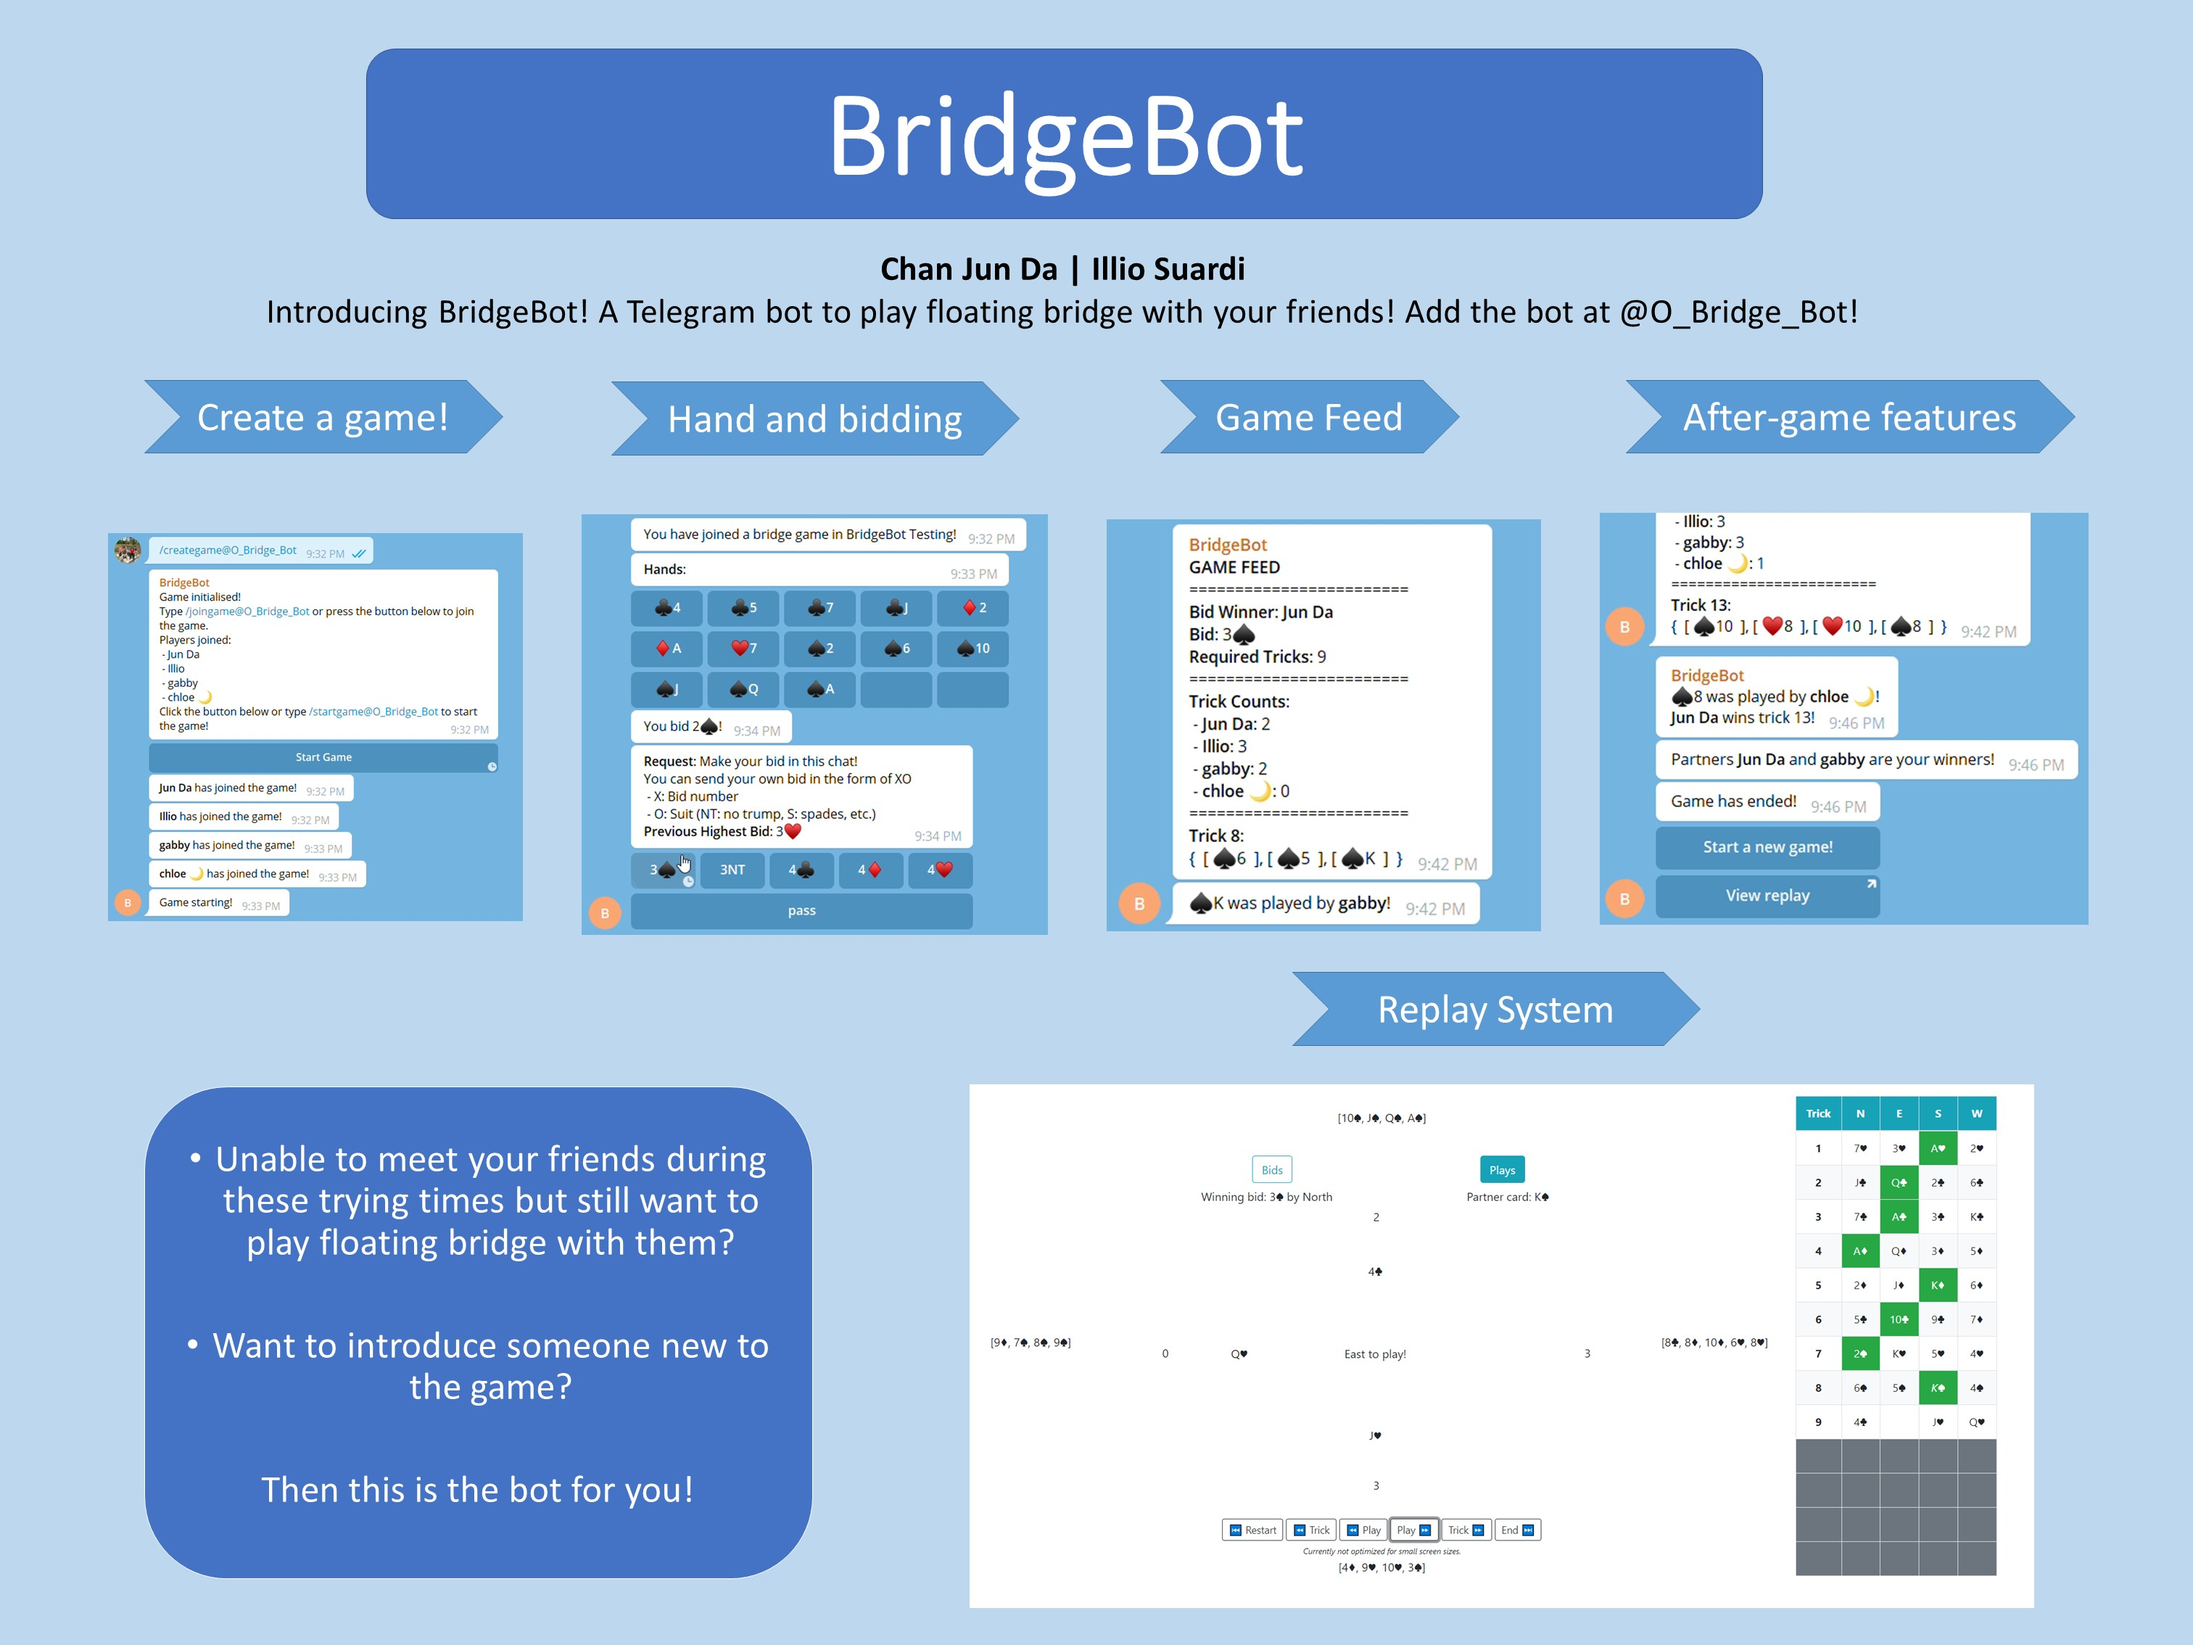
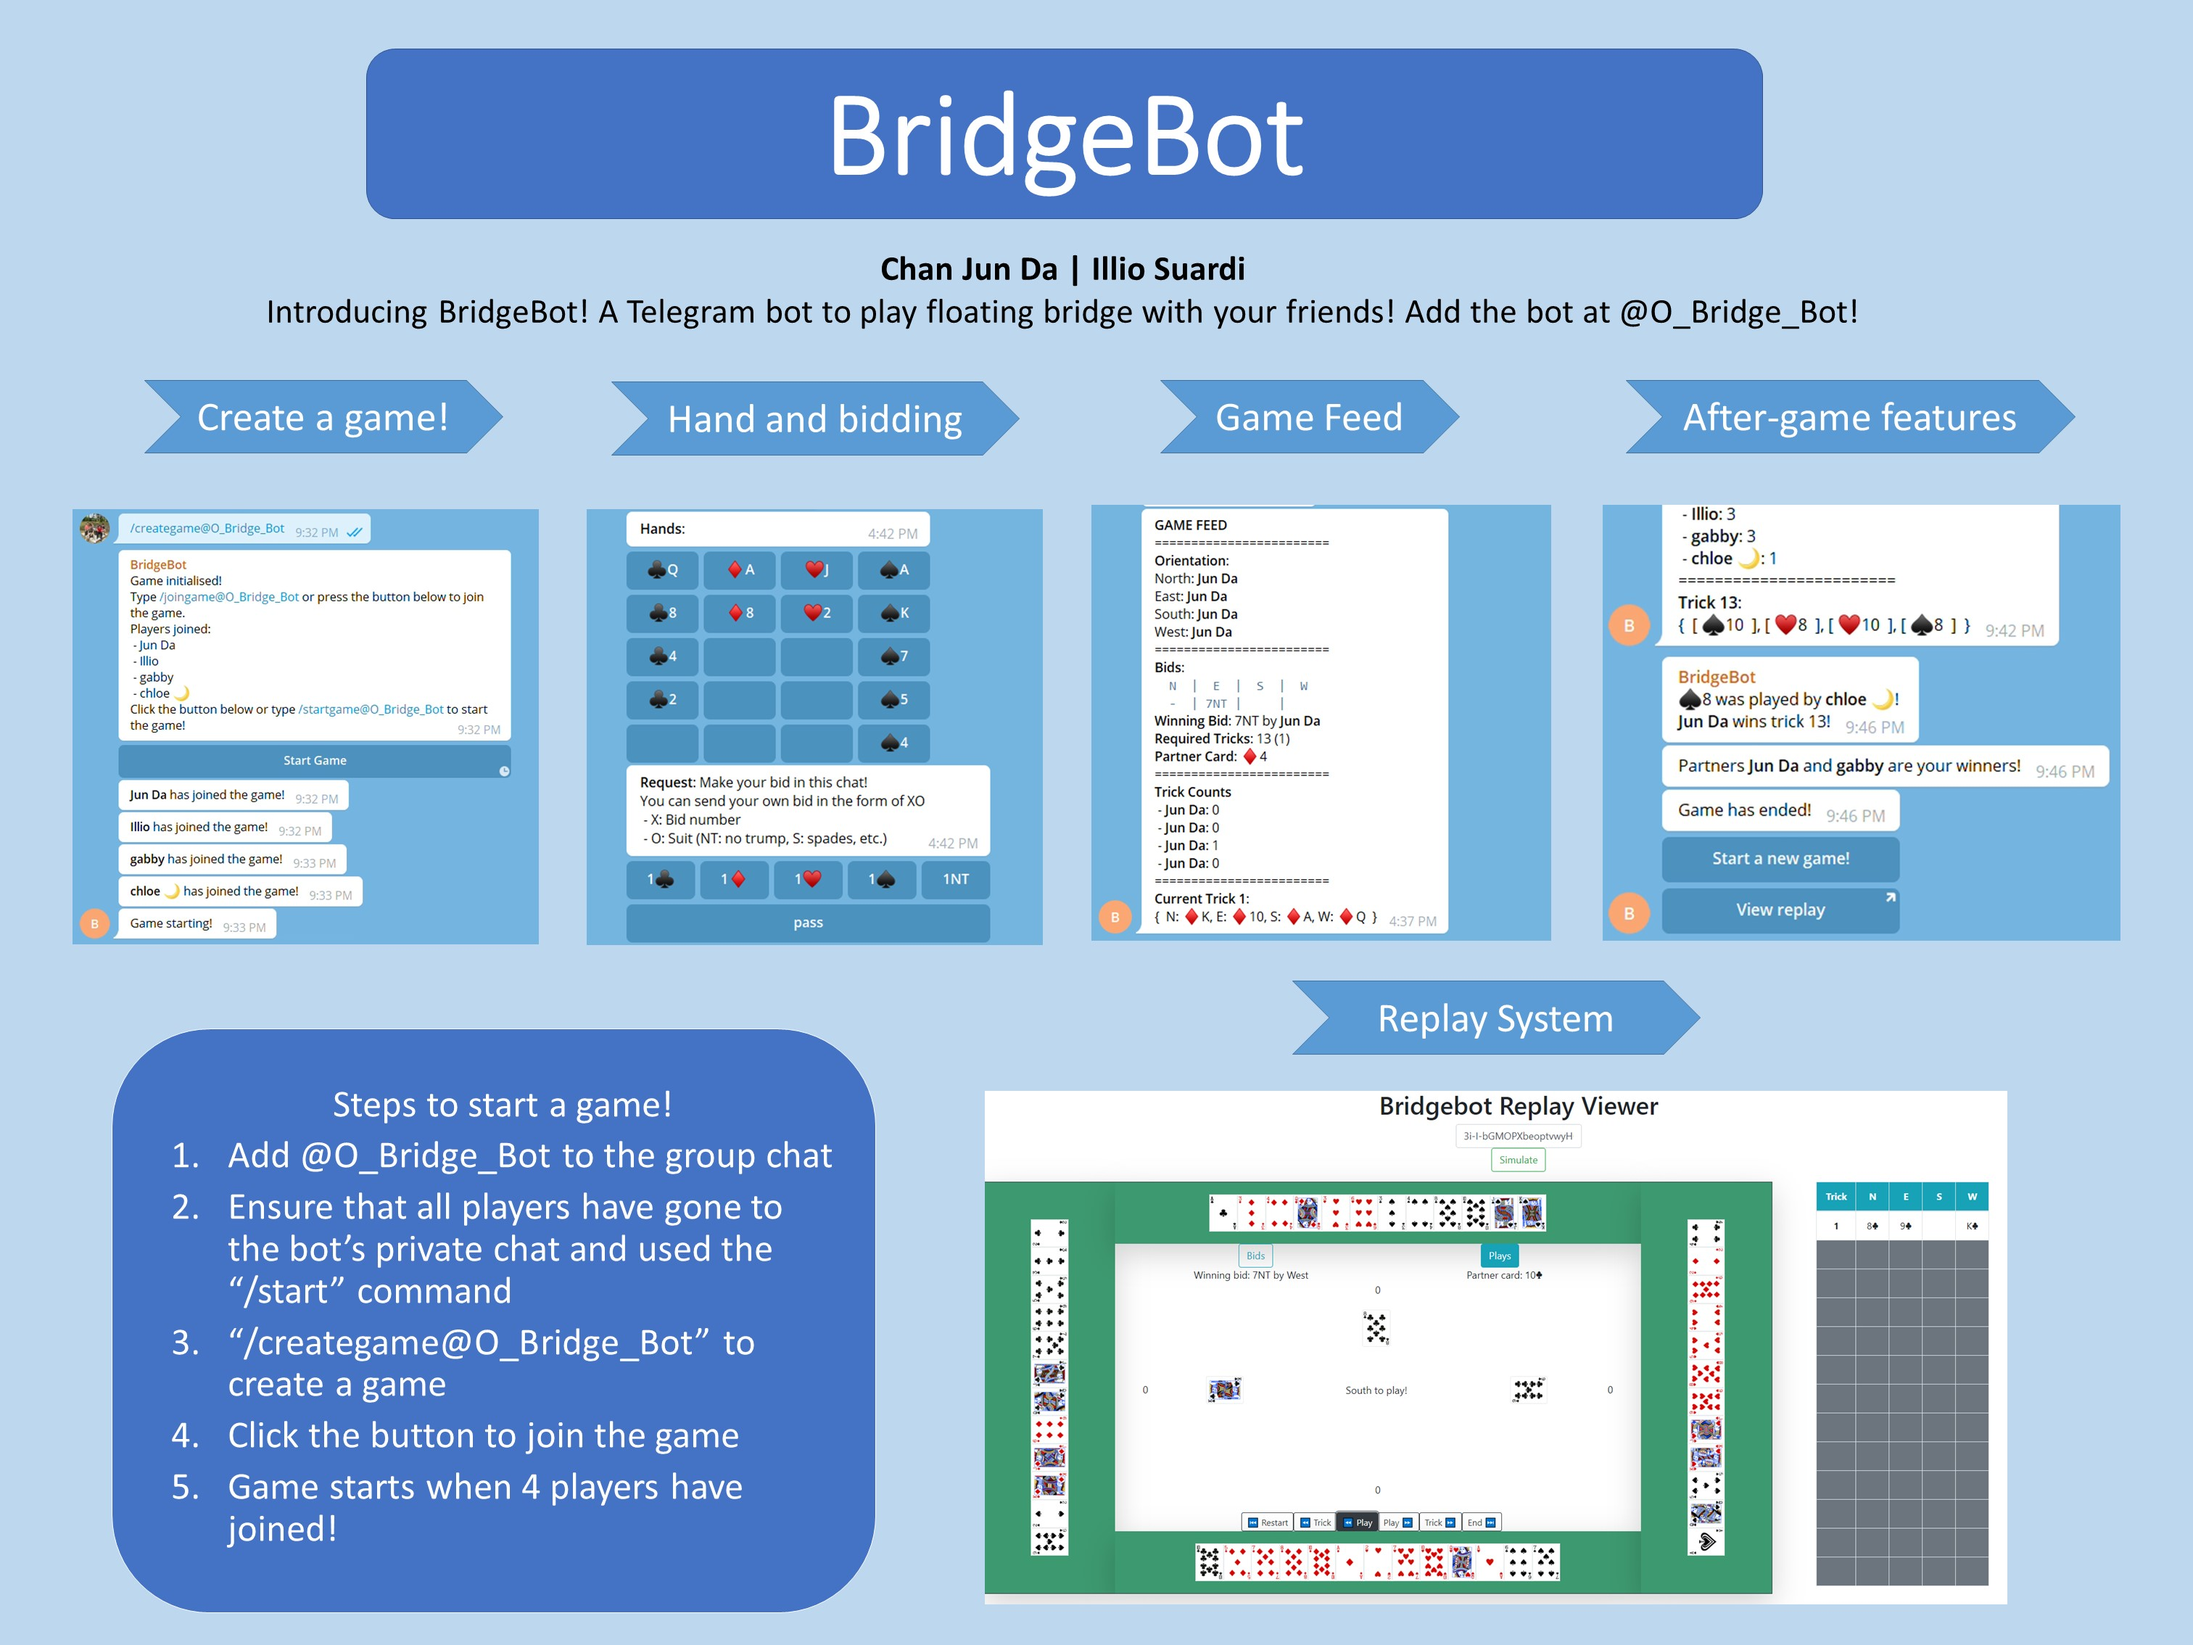
Fixed up and updated README

Changed region(s): [[0.0311, 0.3086, 0.9947, 0.9877], [0.0311, 0.6173, 0.4041, 0.9877], [0.6217, 0.8025, 0.6528, 0.8333]]

diff --git a/README.md b/README.md
@@ -20,11 +20,12 @@ Link to replay system repository: https://github.com/fyshhh/BridgeBot
  1. Add the bot @O\_Bridge\_Bot to your Telegram group of choice
  2. All users who are interested to play will have to enable the bot by going to @O\_Bridge\_Bot and sending the bot the message "/start"
  3. Create a game by using the command "/creategame@O\_Bridge\_Bot" in a group chat
- 4. Users can join with the command "/joingame@O\_Bridge\_Bot" or clicking the "Join Game" button
- 5. Once four players have joined, the game can be started with the command "/startgame@O\_Bridge\_Bot" or by clicking the "Start Game" button
+ 4. For creating practice games, instead us the command "/createpracticegame@O_Bridge_Bot" and then select one of the three modes
+ 5. Users can join with the command "/joingame@O\_Bridge\_Bot" or clicking the "Join Game" button
+ 6. Once four players have joined, will automatically start 
  
 #### 2.2. Playing the game
- 1. On game start: Players will be sent their hand in the form of 13 Telegram buttons in a 3 x 5 grid via private messaging<br/>
+ 1. On game start: Players will be sent their hand with via private messaging<br/>
  ![sample player hand](/images/player_hands.png)
  2. Bidding process: A random player will be chosen to start the bidding. A request will be sent via private messaging to players when it is their turn to bid. 
  The bot will send players an array of buttons with the next five (or fewer if the bid is high) larger bids and a "Pass" option. Players can also create their own bid based on the format specified by the request.
@@ -39,7 +40,7 @@ Link to replay system repository: https://github.com/fyshhh/BridgeBot
  ![sample_game_feed](/images/sample_game_feed.jpg)
  6. Ending the game: Once either pairs of players have reached the required number of tricks, the game terminates, announcing the winners.
  Two buttons will be sent:
-    1. "Create a new game"
+    1. "Start a new game": Immediately starts a new game in the same game mode with the same players
     2. "View the replay": This opens a link to a page where users are able to view a replay of the game that just concluded
     
 #### 2.3. Other features and commands:
@@ -47,14 +48,13 @@ Link to replay system repository: https://github.com/fyshhh/BridgeBot
     - Only usable in a group chat
     - Group adminstrators that use the command will be able to cancel the game immediately
     - Only current players will be able to vote to end the game. 2 votes (out of 4) are required to cancel the game
- - "/help": Used for requesting help from the bot (Work-in-progress)
+ - "/help": Used for requesting help from the bot 
  - "/leavegame": For players to leave a game during the joining phase
  - "/resend": The bot resends the current game feed (for group chats) or player hand (for private chats)
     - This command is mainly used for reducing the amount of scrolling that users need to do to view the game feed
     
 #### 2.4. Miscellaneous bot features
- - The bot has a default timer of 90s before the game automatically cancels due to inactivity
-    - (To be implemented) Users will be able to set the amount of time given for each turn
+ - The bot has a default timer of 300s before the game automatically cancels due to inactivity
     
 ## 3. Program Structure
 #### 3.1. Overall program structure
@@ -227,8 +227,6 @@ In this section, we will be going through how some of the more important systems
 - `leavegame`: Removes the ID of the user from the current GameChatID object
     - Checks that the user is in the current game
     - Checks that the game has not already started
-- `startgame`: Initiates the game by passing the GameChatId object to the mediator
-    - Checks that the current GameChatId has four players
 - `cancelgame`: Cancels the game that is currently running
     - Checks whether the user is an adminstrator of the group, if they are, the game is cancelled
     - Otherwise, check that the player is in the game. Only players in-game can vote
@@ -238,7 +236,7 @@ In this section, we will be going through how some of the more important systems
 #### 4.2. Registering user response
 Here, we look at an instance of how we obtain user response. The main idea is that when the `TelegramPlayer`'s `getNextBid(..)` is called, 
 the class signals that it is waiting for a response by setting `boolean awaitingBidResponse = true`. It then creates a new thread
-and waits for 90 seconds. If during these 90 seconds, the appropriate user sends an appropriate response, then the response is saved, 
+and waits for 300 seconds. If during these 300 seconds, the appropriate user sends an appropriate response, then the response is saved, 
 the thread is interrupted and the response is returned
 
 ##### 4.2.1. Overall flow example (Requesting a card to be played)
